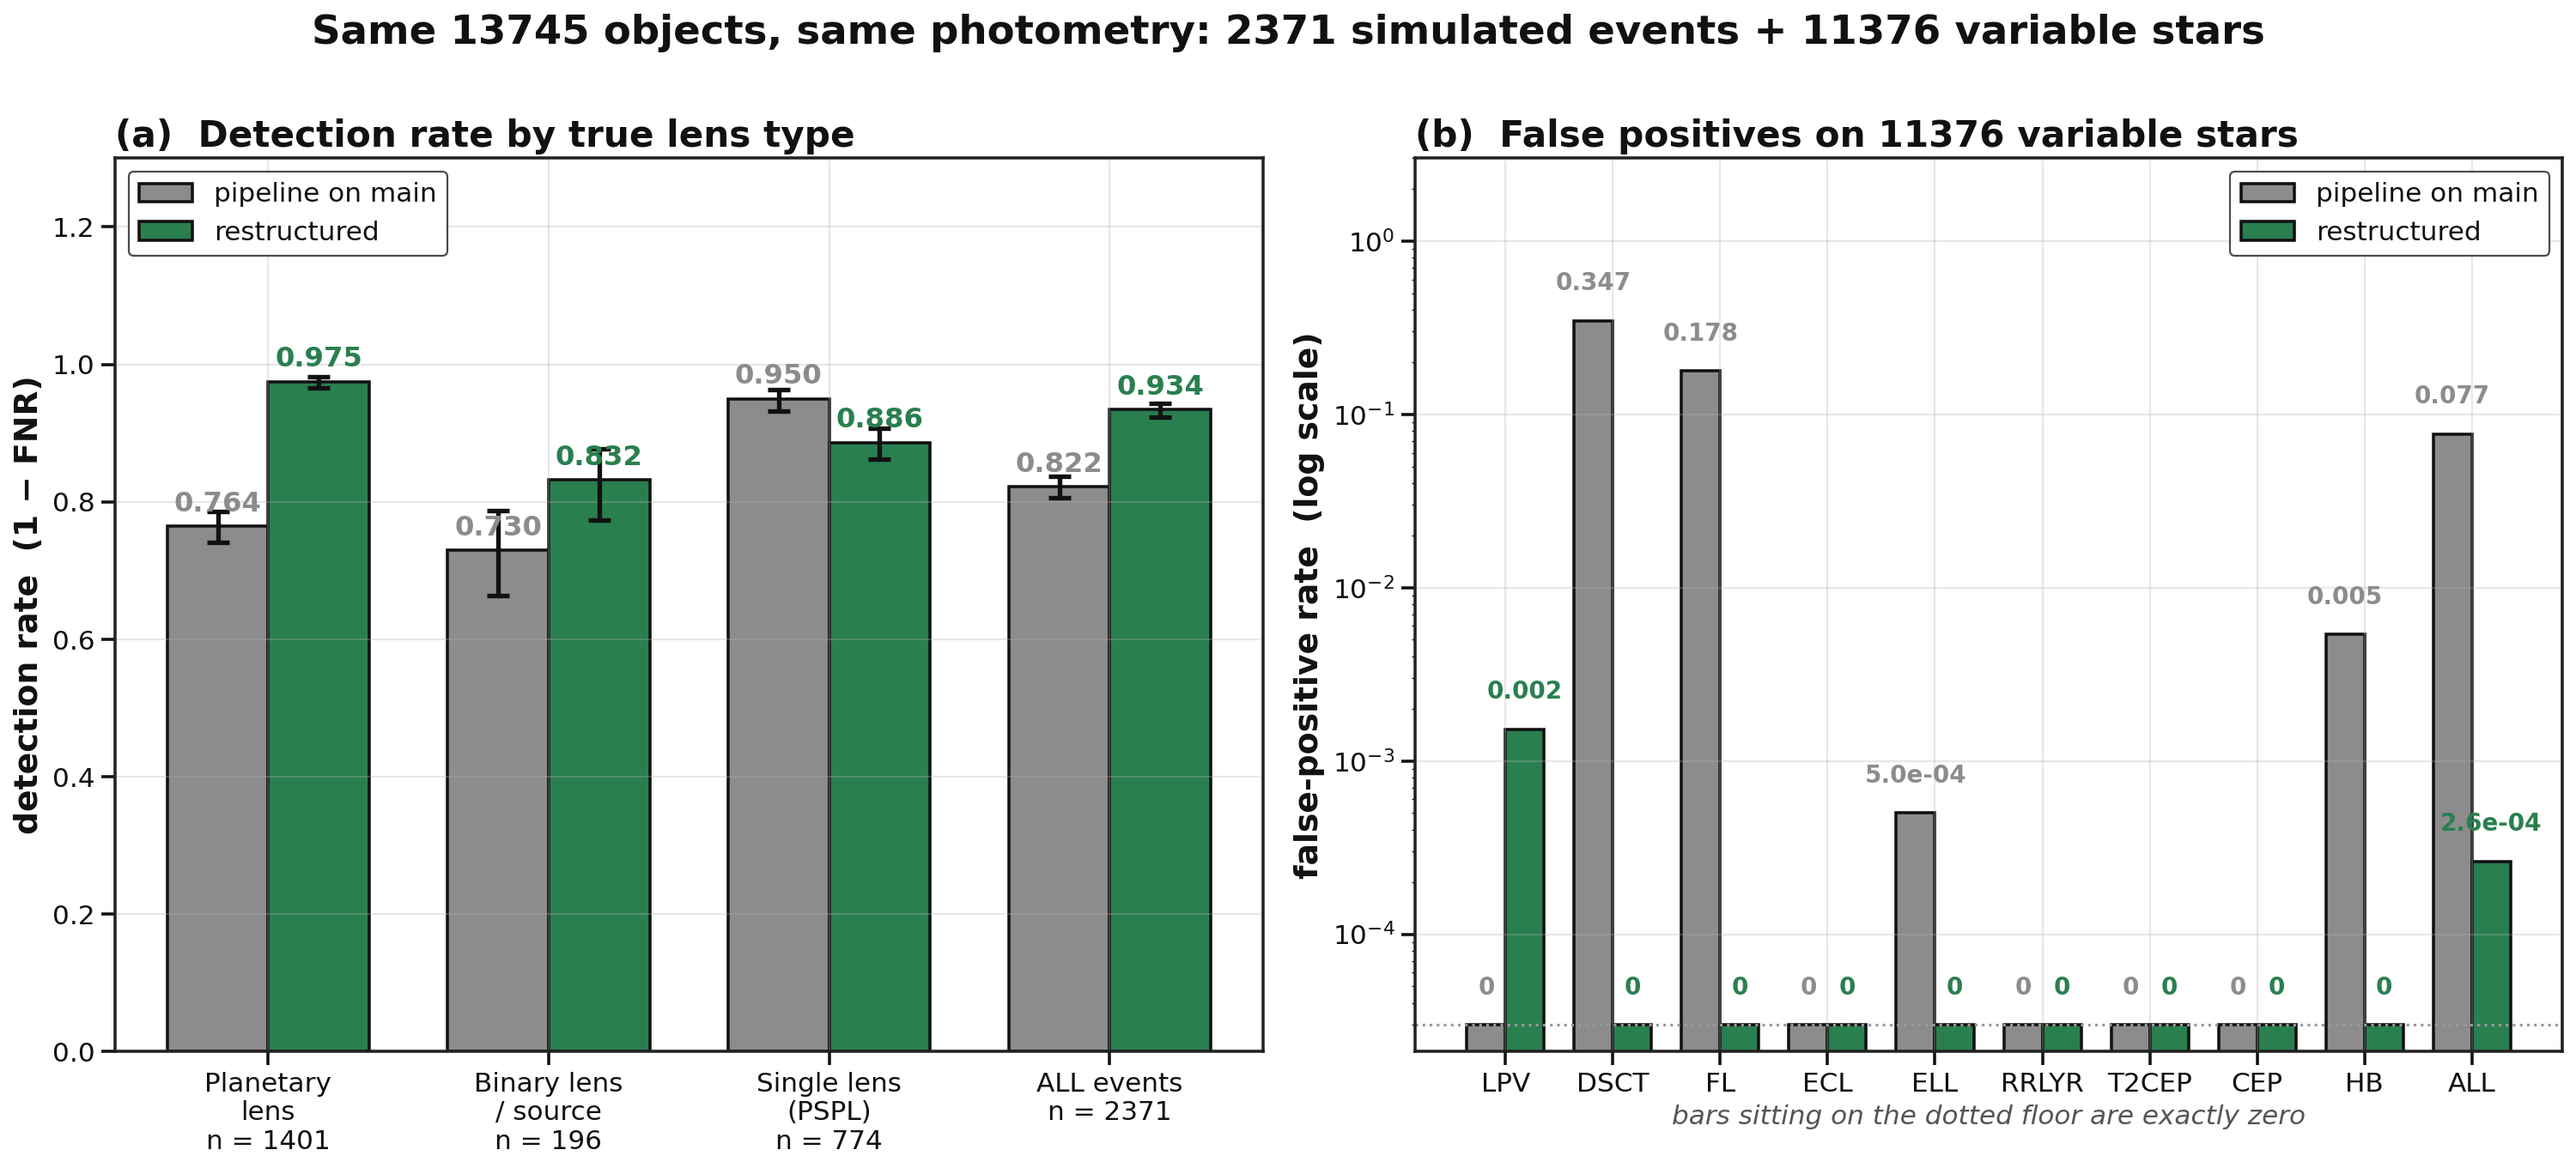
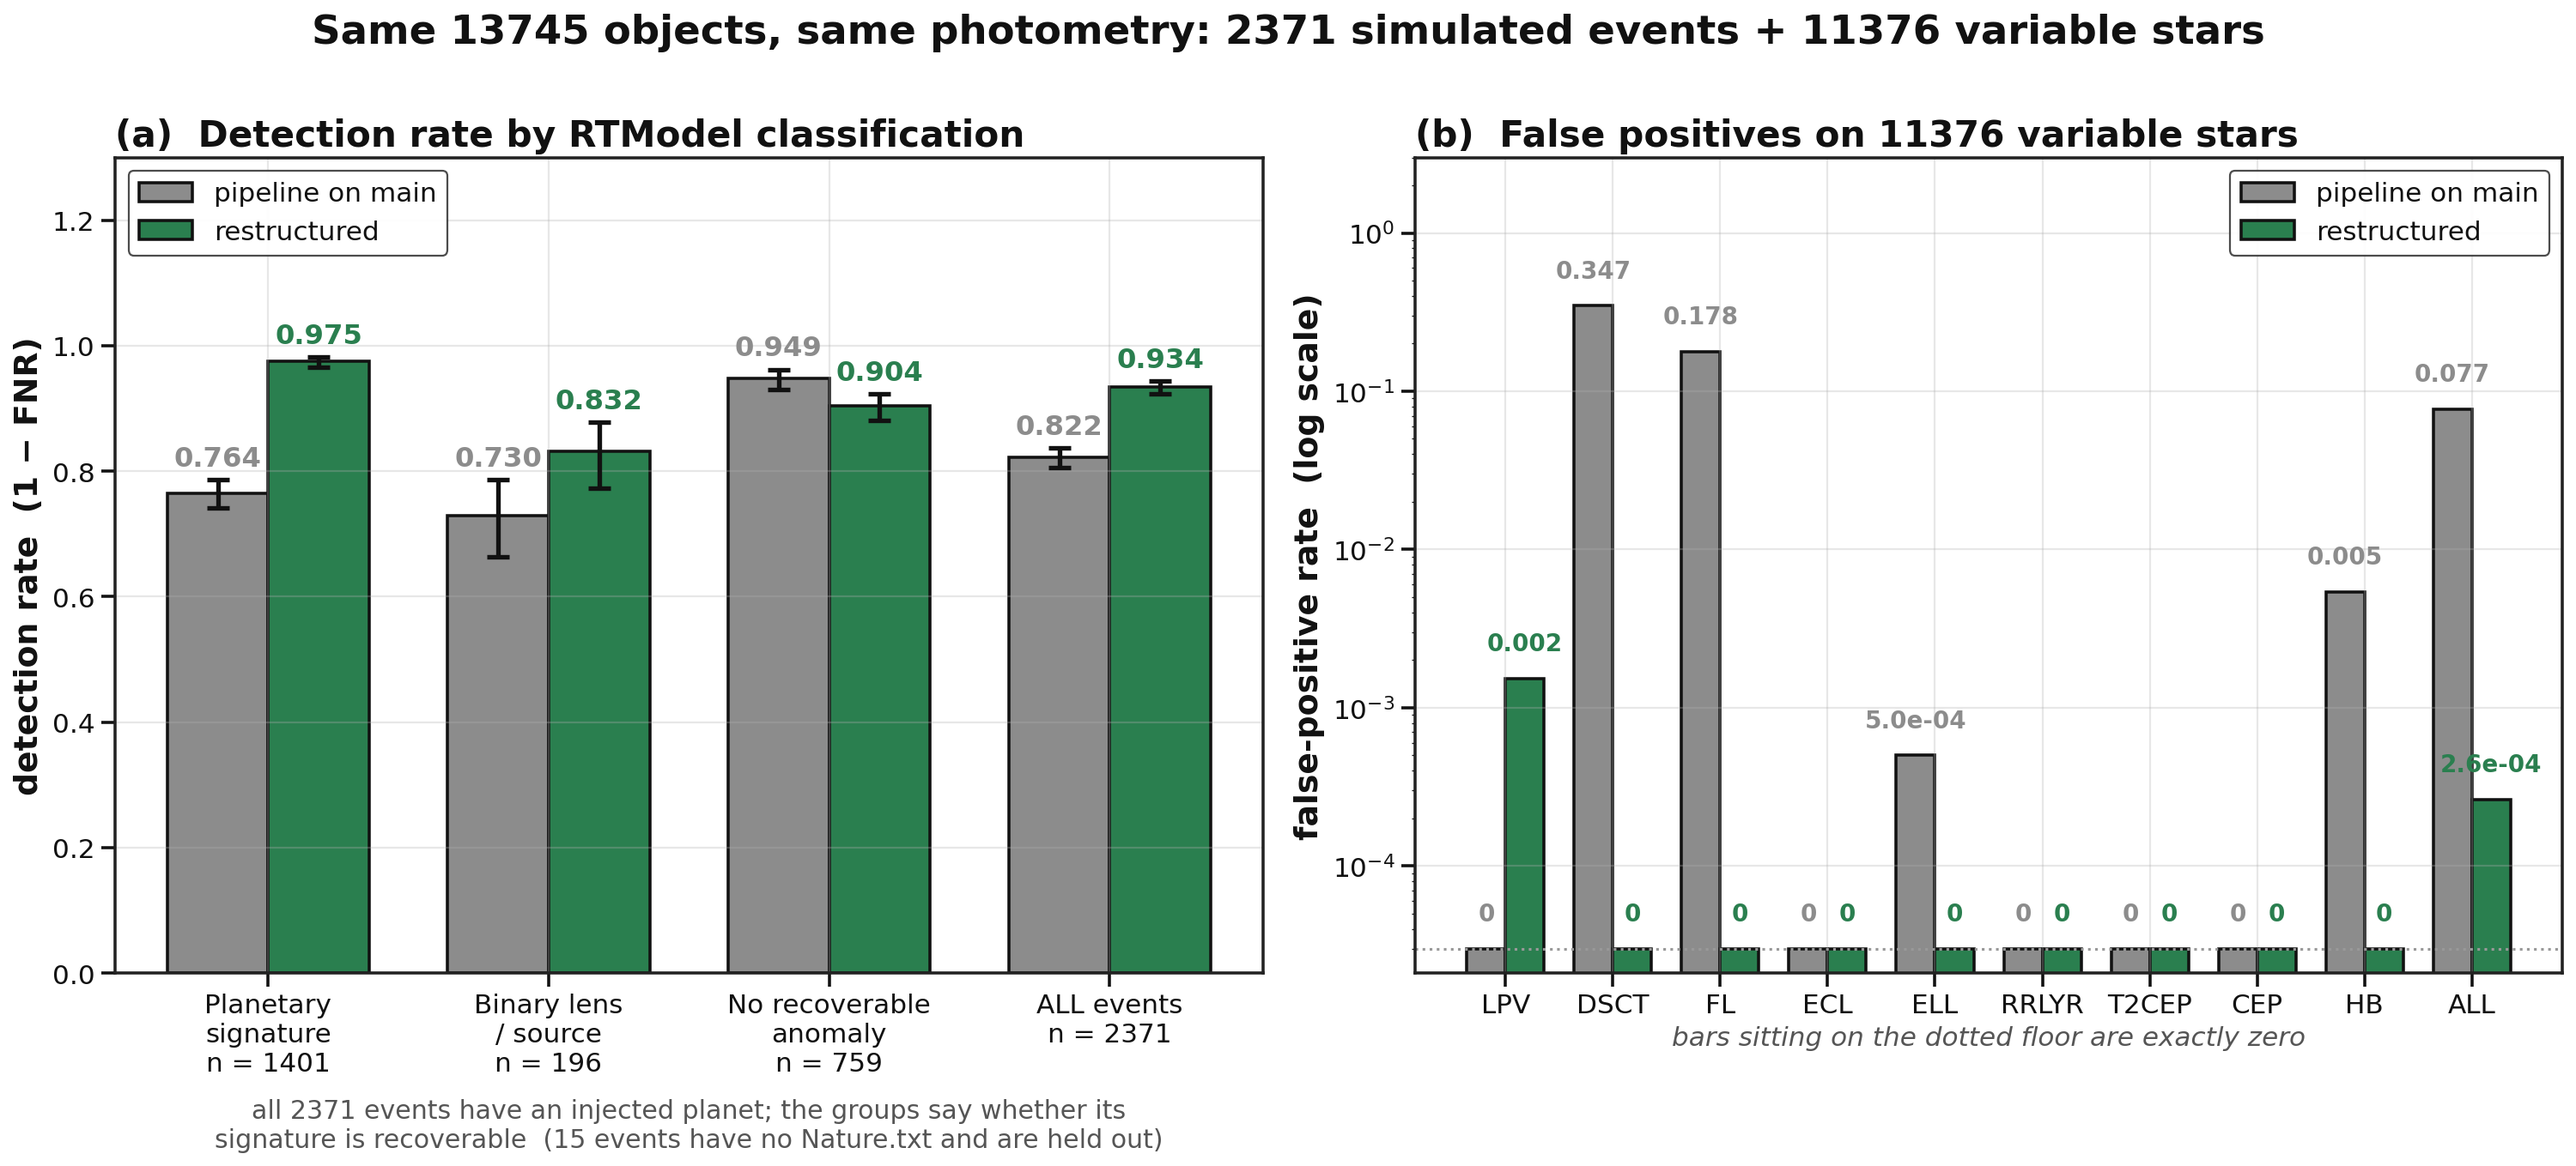
Correct the event grouping: Nature.txt is RTModel's verdict, not the injected truth
All 2371 events carry an injected mass ratio, so there is no single-lens
control group. The Successful: line of Nature.txt records which model class
the light curve requires, which is a different statement.

- rename the groups accordingly in the report and figure 02, and say plainly
  that every event has an injected planet
- hold out the 15 events with no Nature.txt instead of binning them as
  single-lens; the SLSS group becomes 759 and its change -34, not -49
- drop the true_q < 0.03 statistic: 0.976 of the gained events against 0.982
  of the whole sample, and the lost events sit at the same quartiles
- state the circularity of the section 1 table rather than leaving it implied

diff --git a/docs/pipeline-restructure-report.md b/docs/pipeline-restructure-report.md
@@ -16,7 +16,7 @@ Both pipelines were run on the same objects, the same photometry, and the same s
 | FPR (11376 variable stars) | 0.0768 | **0.00026** |
 | FPR (2369 negatives) | — | **0.00000** |
 | Candidate-list purity | 0.690 | **0.9986** |
-| Detection rate, 1401 planetary lenses | 0.7645 | **0.9750** |
+| Detection rate, 1401 events RTModel calls planetary | 0.7645 | **0.9750** |
 
 FNR and FPR move down together; this is not a threshold trade.
 
@@ -57,14 +57,20 @@ Simulation truth (`Models/event_summary_q_s.csv`, `Nature.txt`):
 
 Panel (c) shows what the gate is reacting to: a caustic crossing that leaves a 0.81 mag residual against a per-epoch photometric error of 0.005 mag. That residual is the planetary signal.
 
-### The example is representative
+### What the event groups mean
 
-| True lens type | n | fraction with `chi2_red > 2.5` |
+Every one of the 2371 events has an injected mass ratio in `Models/event_summary_q_s.csv`; there is no single-lens control group in this sample. The grouping used throughout this report comes from the `Successful:` line of `Nature.txt`, which is **RTModel's classification of the light curve** — which model class is needed to describe it — not a statement about what was injected. `Single-Lens-Single-Source` therefore means "the injected planet left no recoverable signature here", not "there is no planet".
+
+| RTModel classification | n | fraction with `chi2_red > 2.5` |
 |---|---:|---:|
 | planetary lens | 1401 | **0.228** |
-| single lens | 774 | 0.049 |
+| binary lens / source | 196 | 0.240 |
+| single-lens-single-source | 759 | 0.050 |
+| no `Nature.txt` | 15 | 0.000 |
 
-The gate fires 4.6 times more often on planetary events than on single-lens ones. Of the 418 events that `main` rejects and this branch detects, 408 (97.6%) have `true_q < 0.03`, with a median mass ratio of `2.8e-4` (Earth to Neptune mass range). By RTModel category: `Planetary lens` 150, `Planetary lens with parallax` 82, `Planetary lens with orbital motion` 69.
+The gate fires 4.5 times more often on light curves with a recoverable planetary signature than on those without. Part of that separation is definitional — `Single-Lens-Single-Source` is assigned precisely when a single-lens model suffices, which is also when aethra's `chi2_red` is small — so this table on its own does not prove the gate is misbehaving. It establishes the weaker and still relevant point: the objects the gate removes are the ones RTModel needs a two-body model for. The non-circular version of the argument is in §5.2, where the ordering is against true peak amplitude, a quantity independent of any chi2.
+
+Of the 418 events `main` rejects and this branch detects, RTModel classifies 327 (78%) as planetary, 52 as binary and 39 as single-lens-single-source. Mass ratio does not explain which events are gained: the gained ones have `q` quartiles `6.1e-5 / 2.8e-4 / 1.6e-3` against `3.2e-5 / 1.3e-4 / 5.9e-4` for all 2371, but the events *lost* relative to `main` sit at `5.6e-5 / 2.6e-4 / 1.4e-3` — the same place as the gained ones. Gained and lost are separated by amplitude, not by `q` (§5.2).
 
 ---
 
@@ -193,32 +199,35 @@ Reads the FITS variable-star catalogue, which is what makes the false-positive r
 
 ## 5. Results
 
-### 5.1 Detection rate by lens type, false positives by variable class
+### 5.1 Detection rate by RTModel classification, false positives by variable class
 
 ![Recall and false positives](figures/02-recall-and-false-positives.png)
 
-Planetary lenses: 0.7645 → 0.9750, i.e. 1071 → 1366 of 1401.
+Events RTModel classifies as needing a planetary model: 0.7645 → 0.9750, i.e. 1071 → 1366 of 1401. As in §1, the groups are RTModel's reading of the light curve, not the injected configuration — all 2371 events have an injected planet.
 
 Variable-star false positives: 874 → 3. The dominant contributors on `main` are DSCT (0.347) and FL (0.178) rather than LPV.
 
 The 3 remaining false positives are all shifted LPVs, with `peak_score` just above the threshold of 40 (42.9–44.8) and `chi2_red` between 247 and 791. A chi2 cut would remove them, but that is the cut this PR removes, so they are accepted as a consequence of the design. Removing them would need a different axis.
 
-### 5.2 The regression on single-lens events
+### 5.2 The regression on events with no recoverable anomaly
 
 ![Detection rate against amplitude, and candidate-list composition](figures/03-the-trade-and-list-purity.png)
 
-On single-lens (PSPL) events the detection rate goes down: 0.9496 → 0.8863. This is a subset of the 2371 events, not the whole sample, so it coexists with the overall gain:
+On the events RTModel classifies as `Single-Lens-Single-Source` the detection rate goes down: 0.9486 → 0.9038. That is one group of 759 inside the 2371, not the whole sample, so it coexists with the overall gain:
 
-| true lens type | n | main | this branch | change |
+| RTModel classification | n | main | this branch | change |
 |---|---:|---:|---:|---:|
 | planetary lens | 1401 | 1071 (0.7645) | 1366 (0.9750) | **+295** |
 | binary lens / source | 196 | 143 (0.7296) | 163 (0.8316) | **+20** |
-| single lens (PSPL) | 774 | 735 (0.9496) | 686 (0.8863) | **−49** |
+| single-lens-single-source | 759 | 720 (0.9486) | 686 (0.9038) | **−34** |
+| no `Nature.txt` | 15 | 15 (1.0000) | 0 (0.0000) | **−15** |
 | **all events** | **2371** | **1949 (0.8220)** | **2215 (0.9342)** | **+266** |
 
-The 49 lost on single-lens events are outweighed by the 295 gained on planetary ones, which is the larger group.
+The 15 events with no `Nature.txt` are held out of the third group rather than folded into it, because RTModel never classified them. They are the low-amplitude failure mode described below rather than a separate effect: peak amplitude 0.022–2.53 mag with a median of 0.055, 10 of the 15 below 0.1 mag. `main` detects all 15, but at `chi2_red ≈ 1.0` with a fitted `tE` whose median is 0.14× the truth and only 1 of 15 within a factor of 2 — the fit passes the gate without measuring the event.
 
-Panel (a) shows where the 49 come from. On `main` the detection rate falls monotonically with the true peak amplitude, from 1.00 below 0.02 mag to 0.79 above 1 mag. Each amplitude bin is the same set of events for both pipelines, so within a bin the two curves share a denominator; the bins themselves are very uneven (5, 77, 76, 196, 473, 1544 events, summing to 2371), which is why the leftmost point carries an error bar half the height of the panel.
+The 34 + 15 lost are outweighed by the 295 gained on the planetary group, which is also the larger group.
+
+Panel (a) shows where the losses come from. On `main` the detection rate falls monotonically with the true peak amplitude, from 1.00 below 0.02 mag to 0.79 above 1 mag. Each amplitude bin is the same set of events for both pipelines, so within a bin the two curves share a denominator; the bins themselves are very uneven (5, 77, 76, 196, 473, 1544 events, summing to 2371), which is why the leftmost point carries an error bar half the height of the panel.
 
 That ordering follows from selecting on fit quality rather than on significance:
 
@@ -333,7 +342,7 @@ The numbers above come from:
 
 1. full run over 2371 events + 11376 variable stars → `pipeline_full.csv`
 2. the same objects run in a `main` worktree → `pipeline_main.csv`
-3. true lens types collected from `Nature.txt` and `Models/event_summary_q_s.csv`
+3. RTModel classifications collected from `Nature.txt`, injected mass ratios from `Models/event_summary_q_s.csv`
 4. negative set: 2369 light curves with the event season removed
 5. injection grid: 14214 injections
 6. figures: `docs/figures/*.png`
